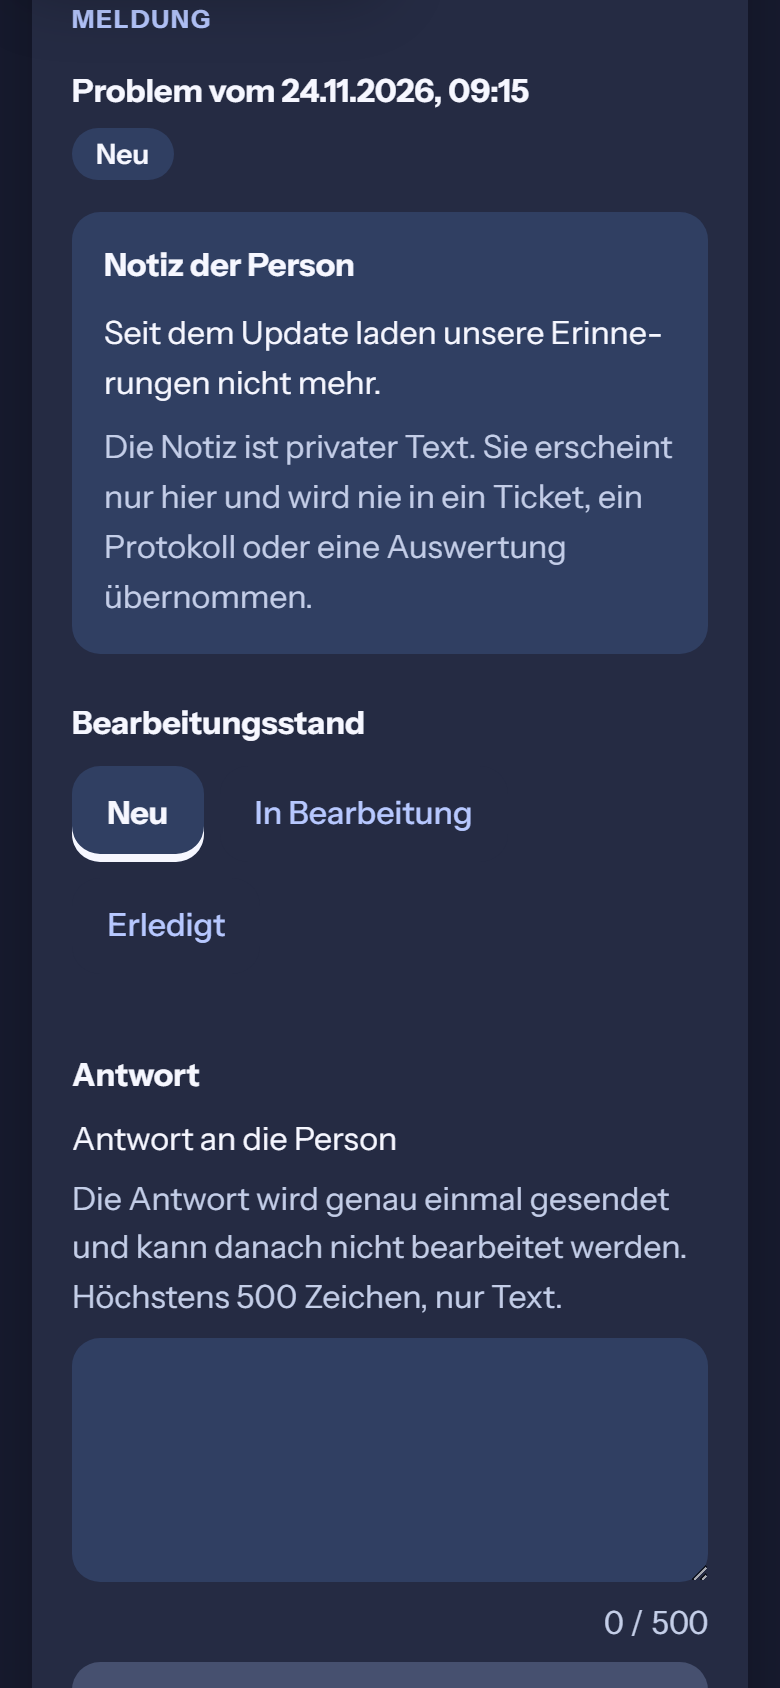
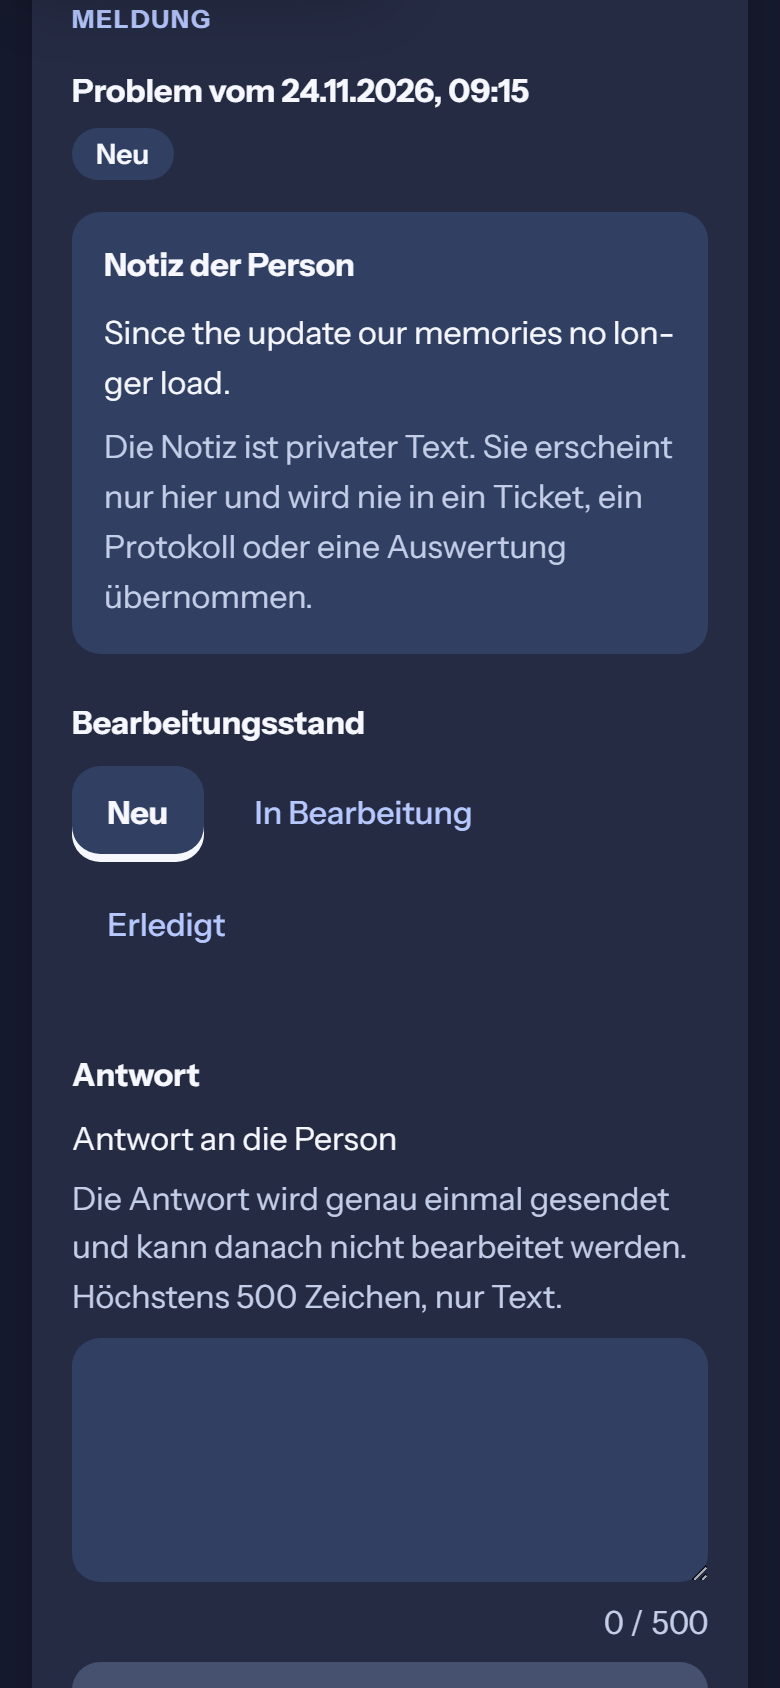
test(web): English fixture texts in the reports spec, captures retaken (#2189)
The engineering-language audit flags German fixture strings in browser
specs; the note and reply fixtures are English now.

Changed region(s): [[0.1231, 0.1848, 0.8615, 0.2464]]

diff --git a/web/e2e/tests/server-admin-support-reports.spec.ts b/web/e2e/tests/server-admin-support-reports.spec.ts
@@ -24,9 +24,9 @@ import { installMocks } from '../support/storyTimelineFixture';
 const PROBLEM_ID = '66666666-6666-4666-8666-666666666666';
 const FEEDBACK_ID = '77777777-7777-4777-8777-777777777777';
 const REPORTER_ID = '88888888-8888-4888-8888-888888888888';
-const NOTE = 'Seit dem Update laden unsere Erinnerungen nicht mehr.';
-const FEEDBACK_NOTE = 'Ein Wochenplan für uns beide wäre schön.';
-const REPLY = 'Danke für die Meldung, wir haben die Ursache gefunden.';
+const NOTE = 'Since the update our memories no longer load.';
+const FEEDBACK_NOTE = 'A weekly plan for both of us would be nice.';
+const REPLY = 'Thanks for the report, we found the cause.';
 const TICKET_BODY = 'Timeline request fails with 500 after 1.4.0.';
 const TICKET_URL = 'https://github.com/example/eimir-support/issues/42';
 const TEST_PASSWORD = 'operator-step-up-test-password';

diff --git a/docs/product/design/evidence/2189-admin/README.md b/docs/product/design/evidence/2189-admin/README.md
@@ -26,8 +26,10 @@ information design here; it never reaches couple-facing screens.
   footer. Existing functions stay unchanged; Reports is one more navigation
   entry, shown only while `supportReportsOperatorAvailable` is true, and the
   overview warning `support_reports_unread` links into it.
-- App code of the captures: `fb9ebbacf`; spec
-  `web/e2e/tests/server-admin-support-reports.spec.ts` at `280c8f5bd`.
+- App code of the captures: `fb9ebbacf` (unchanged since); spec
+  `web/e2e/tests/server-admin-support-reports.spec.ts` at `280c8f5bd` with
+  English fixture texts. The captures were retaken in the commit that changed
+  those texts, so the note and reply shown are English while the UI is German.
 
 ## Mobile Interaction Contract
 
